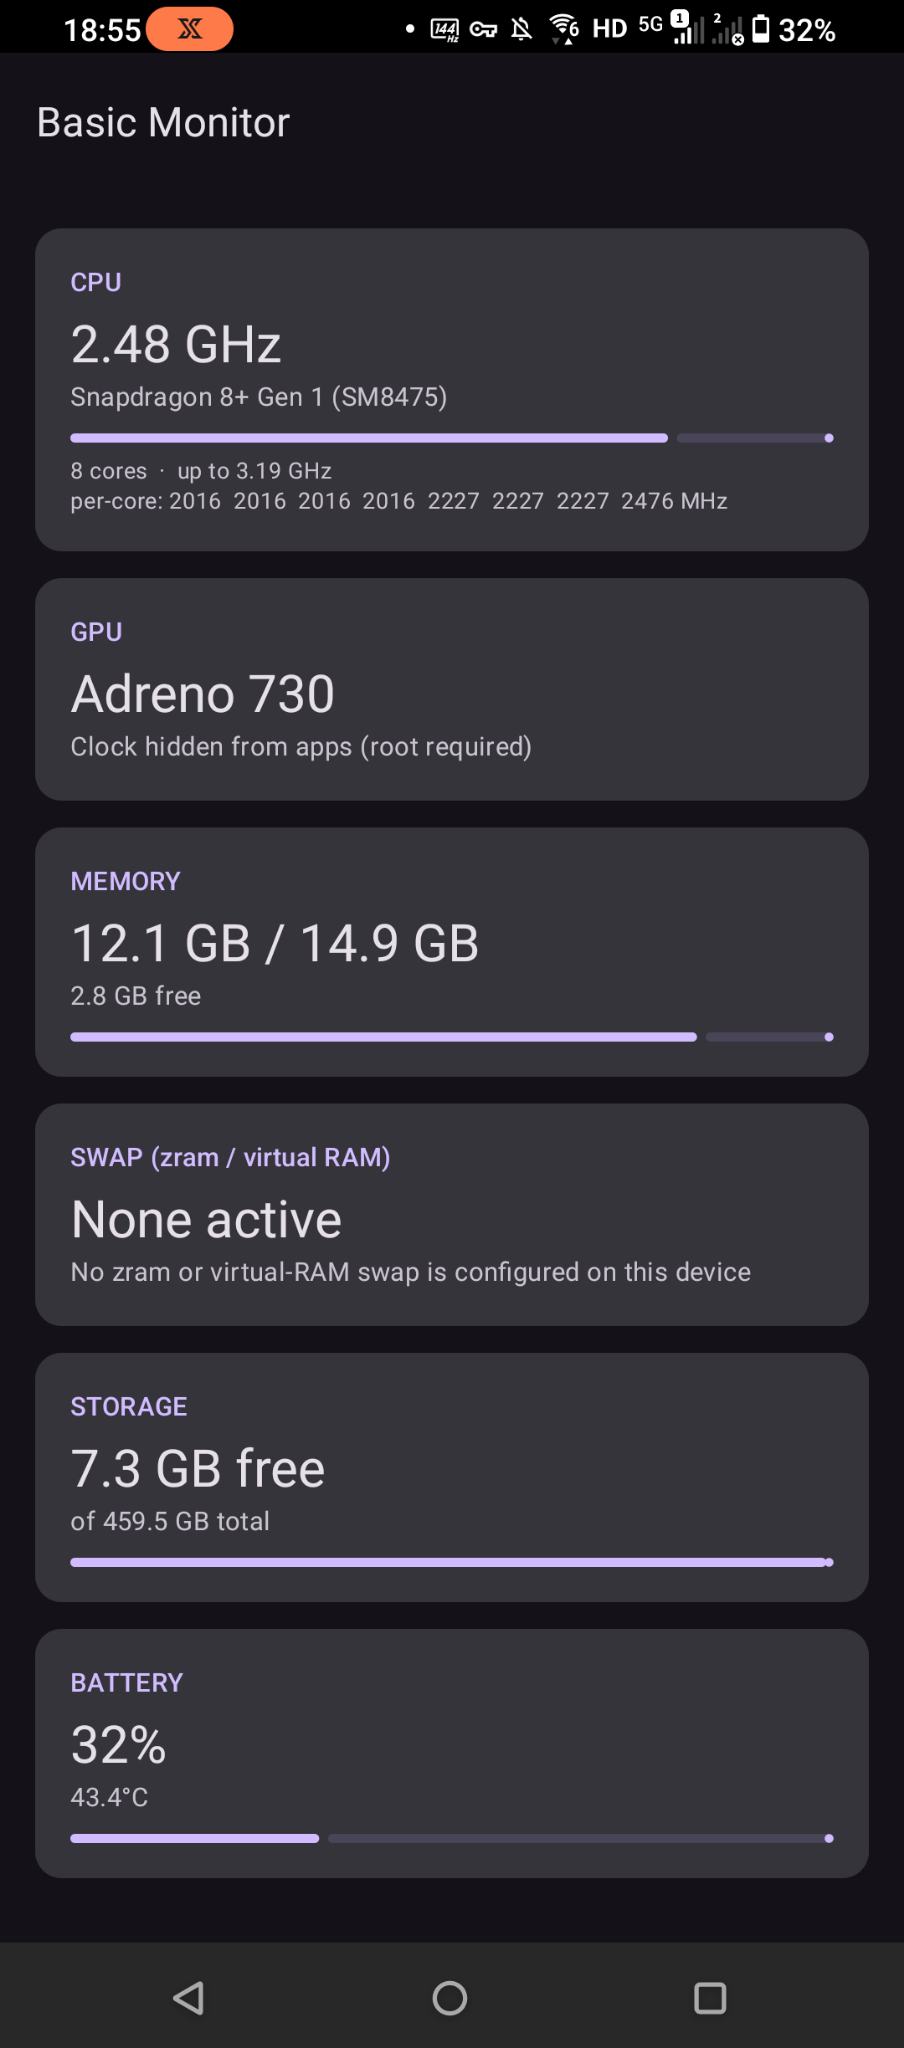
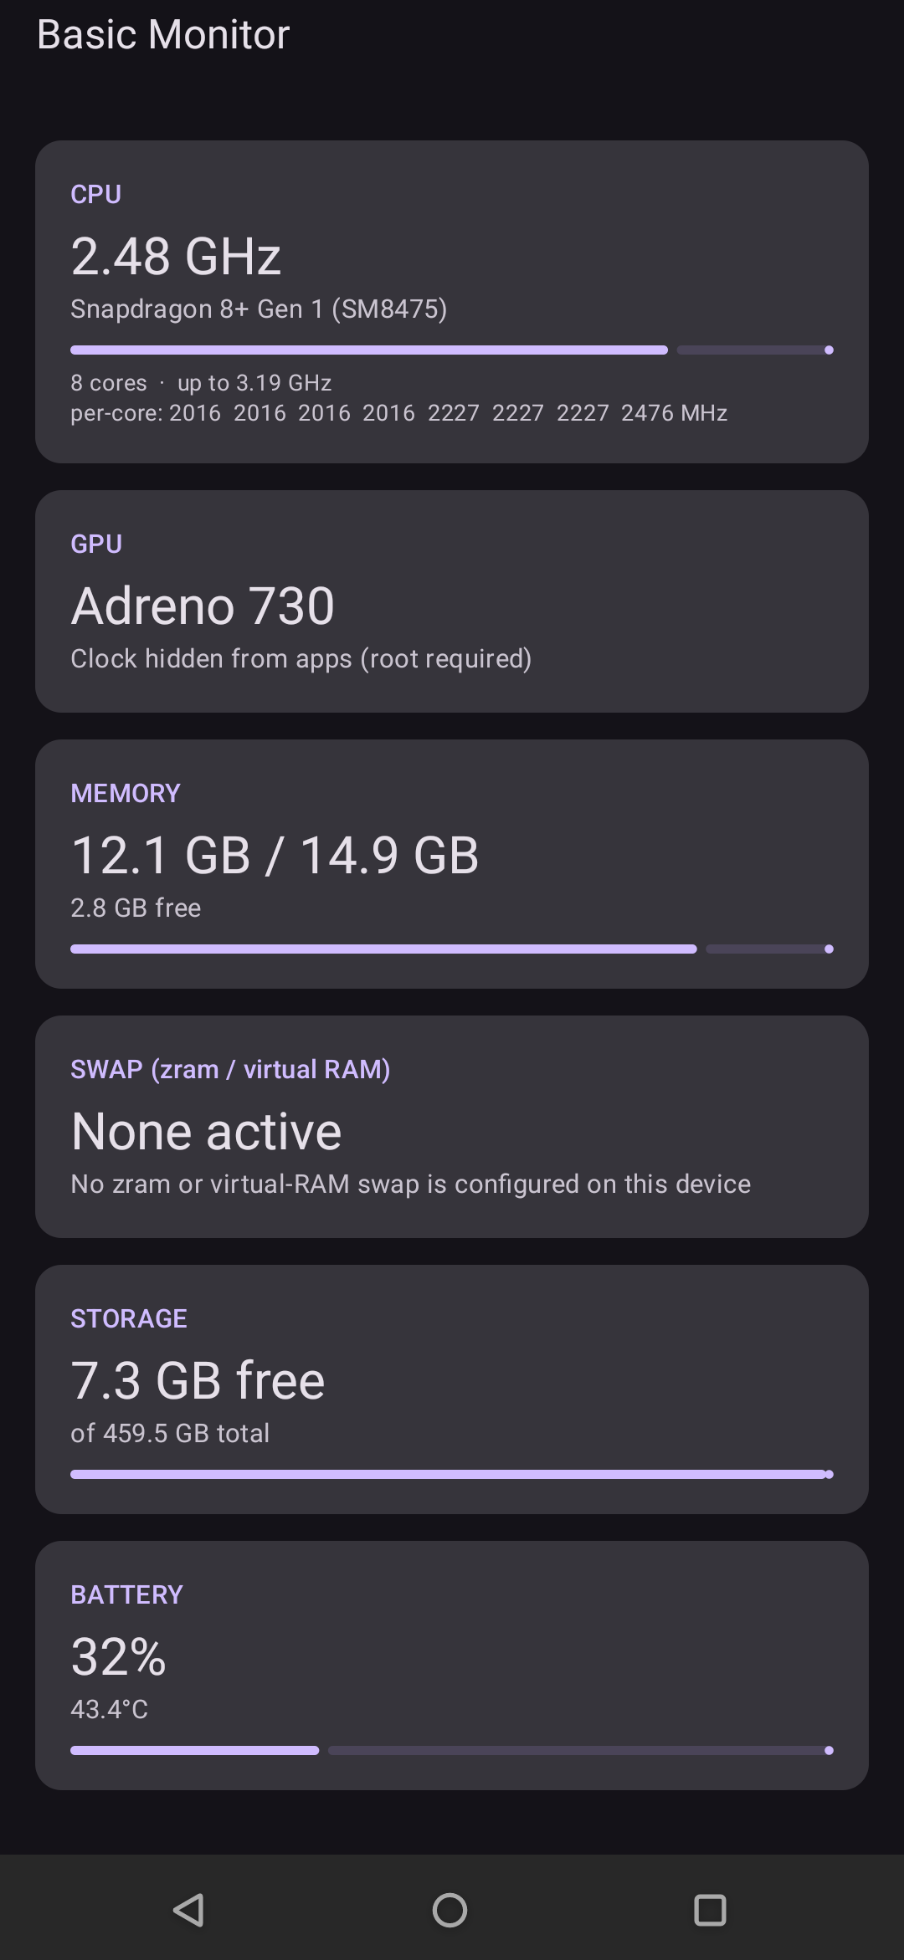
BasicCalendar cross-zone conversion; strip status bars from doc screenshots
- BasicCalendar: the editor and event rows now show the event's moment in the
  phone's local time when the chosen zone differs (e.g. "Rings 6:00 PM, Thu
  Aug 27 your time (Chicago)"), so a foreign-zone event can't be mistaken for
  local time.
- README: note the suite's Material 3 theming and system light/dark behavior.
- Crop the status bar out of every documentation screenshot, removing device
  fingerprinting (dual-SIM, carrier, VPN, battery) from the real-device captures.

diff --git a/BasicCalendar/app/src/main/java/dev/montb/basiccalendar/ui/MainActivity.kt b/BasicCalendar/app/src/main/java/dev/montb/basiccalendar/ui/MainActivity.kt
@@ -92,6 +92,7 @@ import java.time.DayOfWeek
 import java.time.Instant
 import java.time.LocalDate
 import java.time.YearMonth
+import java.time.ZoneId
 import java.time.ZoneOffset
 import java.time.format.DateTimeFormatter
 import java.time.format.TextStyle
@@ -383,6 +384,8 @@ private fun EventRow(
     onClick: () -> Unit,
     onDelete: () -> Unit
 ) {
+    val context = LocalContext.current
+    val is24 = remember { DateFormat.is24HourFormat(context) }
     Row(
         modifier = Modifier.fillMaxWidth().clickable(onClick = onClick).padding(16.dp),
         verticalAlignment = Alignment.CenterVertically
@@ -400,6 +403,16 @@ private fun EventRow(
                 color = MaterialTheme.colorScheme.onSurfaceVariant,
                 maxLines = 1, overflow = TextOverflow.Ellipsis
             )
+            event.anchorDate?.let { d ->
+                localTimeHint(d, event.hour, event.minute, event.zoneId, is24)?.let { hint ->
+                    Text(
+                        hint,
+                        style = MaterialTheme.typography.bodySmall,
+                        color = MaterialTheme.colorScheme.primary,
+                        maxLines = 1, overflow = TextOverflow.Ellipsis
+                    )
+                }
+            }
             val sub = buildString {
                 append(repeatSummary(event.repeat))
                 if (event.label.isNotBlank()) append("  ·  ${event.label}")
@@ -416,6 +429,22 @@ private fun repeatSummary(repeat: Repeat): String = when (repeat) {
     Repeat.WEEKLY -> "Weekly"
     Repeat.MONTHLY -> "Monthly"
     Repeat.YEARLY -> "Yearly"
+}
+
+/**
+ * When [zoneId] differs from the phone's own zone, the SAME instant rendered in the device's
+ * local time, e.g. "7:00 PM, Thu Aug 27 your time (Chicago)". This is the moment the alarm
+ * actually rings where you are, so a "09:00 in Tokyo" event can't be mistaken for 9am local.
+ * Returns null when both zones resolve to the same wall-clock time (nothing to clarify).
+ */
+private fun localTimeHint(date: LocalDate, hour: Int, minute: Int, zoneId: String, is24: Boolean): String? {
+    val zone = runCatching { ZoneId.of(zoneId) }.getOrNull() ?: return null
+    val eventLdt = runCatching { date.atTime(hour, minute) }.getOrNull() ?: return null
+    val deviceZone = ZoneId.systemDefault()
+    val localLdt = eventLdt.atZone(zone).withZoneSameInstant(deviceZone).toLocalDateTime()
+    if (localLdt == eventLdt) return null
+    val pattern = if (is24) "HH:mm, EEE MMM d" else "h:mm a, EEE MMM d"
+    return "${localLdt.format(DateTimeFormatter.ofPattern(pattern))} your time (${Zones.cityLabel(deviceZone.id)})"
 }
 
 /* ----------------------------------- editor ----------------------------------- */
@@ -468,6 +497,16 @@ private fun EventEditorDialog(
 
                 Text("Time zone", style = MaterialTheme.typography.labelMedium)
                 PickerRow("${Zones.label(zoneId)}  (${Zones.offsetLabel(zoneId)})") { pickingZone = true }
+                // Live "your local time" conversion, so a foreign-zone event can't be mistaken
+                // for local time. Recomputes as the date, time, or zone changes.
+                localTimeHint(date, timeState.hour, timeState.minute, zoneId, is24)?.let { hint ->
+                    Text(
+                        "Rings $hint",
+                        style = MaterialTheme.typography.bodySmall,
+                        color = MaterialTheme.colorScheme.primary,
+                        modifier = Modifier.padding(start = 4.dp, top = 2.dp)
+                    )
+                }
 
                 Spacer(Modifier.height(8.dp))
                 Text("Repeat", style = MaterialTheme.typography.labelMedium)

diff --git a/README.md b/README.md
@@ -38,6 +38,8 @@ Most of these live in parts of the Android platform that ordinary apps never tou
 Kotlin · Jetpack Compose · Coroutines & Flow · Paging 3 · Room · CameraX · Material 3
 `minSdk 26` · `compileSdk / targetSdk 35` · arm64 · R8 full-mode release builds
 
+**Theming:** Material 3, following your system light/dark theme (switch it in Android's display settings, since there's no in-app toggle). The SMS, dialer, and contacts apps also adopt Material You dynamic color on Android 12+; the camera uses a dark viewfinder by design.
+
 ## Building
 
 Each app is an independent Gradle project; open any one in **Android Studio** and run it. See **[BUILD.md](BUILD.md)** for details. Requires **JDK 17 or 21** (not 22+).

diff --git a/BasicCalendar/README.md b/BasicCalendar/README.md
@@ -8,7 +8,7 @@ A minimal **date and time-zone alarm calendar**: set an alarm for a specific fut
 
 | Month grid & upcoming | New event |
 |---|---|
-| <img src="docs/month-grid.png" width="250" alt="Month grid with event dots and the upcoming list"> | <img src="docs/editor.png" width="250" alt="New event editor: date, time, time zone, and repeat"> |
+| <img src="docs/month-grid.png" width="250" alt="Month grid with event dots and the upcoming list"> | <img src="docs/editor.png" width="250" alt="New event editor with a live cross-time-zone conversion showing the local ring time"> |
 
 > Demo events, captured on an emulator.
 
